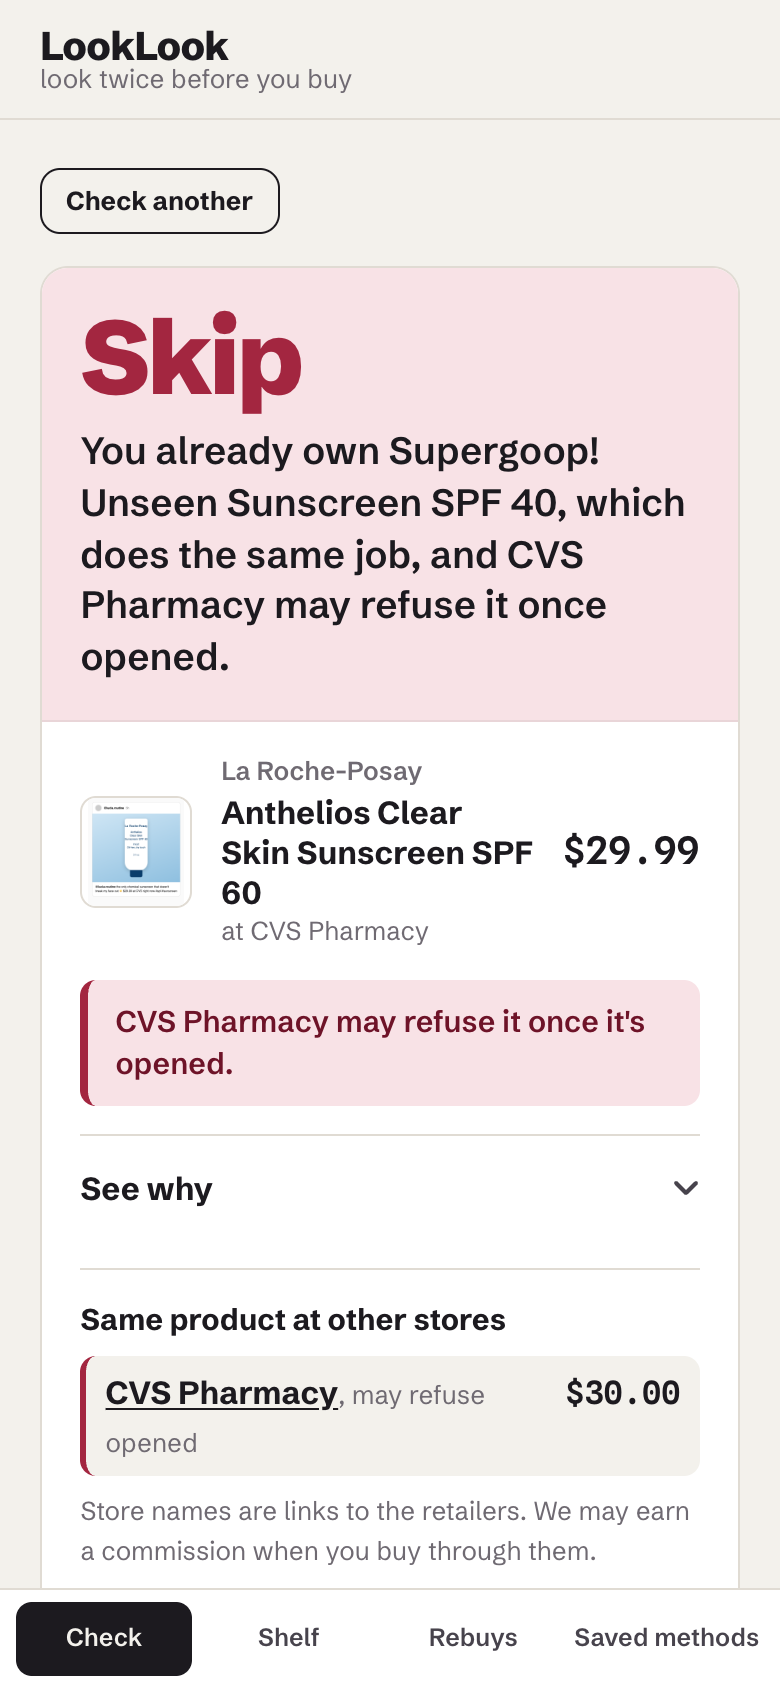
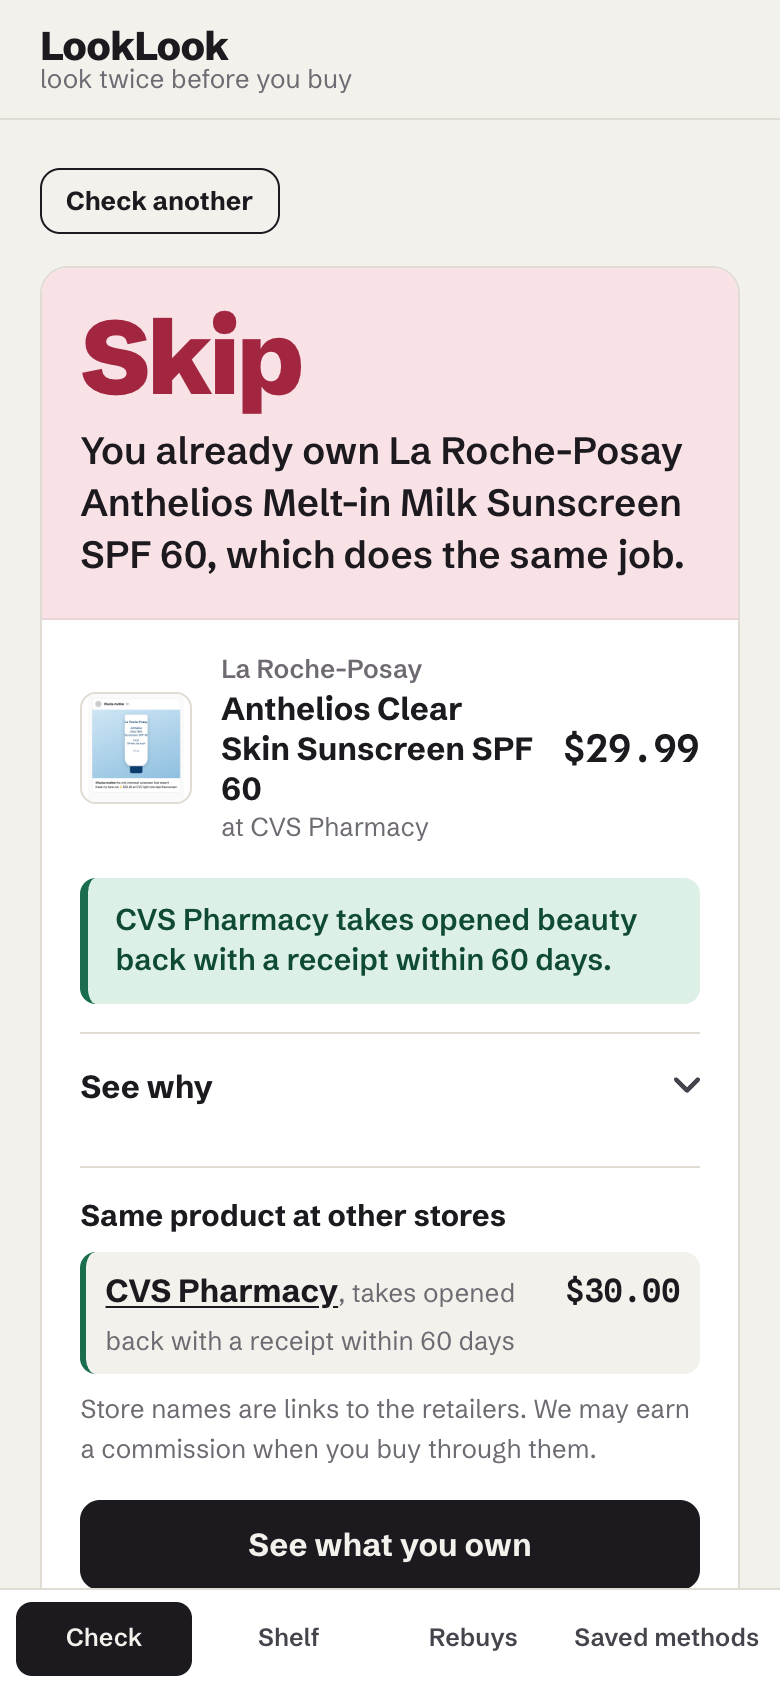
fix: CVS sunscreen card reassures: opened beauty goes back with a receipt
The return line names what an opened return needs when the policy says
so: "CVS Pharmacy takes opened beauty back with a receipt within 60
days." The same phrase appears in the verdict's Returns row, the
other-stores list and the Decisions workspace.

README: CVS joins the stores that take opened beauty back, the
development-set number is 58 of 65, and a Corrections note gives the
commits and times. The README image is re-shot. Tests cover CVS beauty
being returnable opened and the receipt wording.

Changed region(s): [[0.0308, 0.2464, 0.9538, 0.955], [0.7077, 0.7393, 0.8923, 0.7701]]

diff --git a/lib/policies/policies.test.ts b/lib/policies/policies.test.ts
@@ -1,5 +1,5 @@
 import { describe, expect, it } from "vitest";
-import { findRetailer, openedReturnPolicy, parsePolicyTable, policyTable, PolicyTableError } from "./index";
+import { findRetailer, openedNeedsFor, openedReturnPolicy, parsePolicyTable, policyTable, PolicyTableError } from "./index";
 
 describe("return-policy table", () => {
   it("loads the shipped table with the seven stores", () => {
@@ -24,17 +24,24 @@ describe("return-policy table", () => {
     }
   });
 
-  it("takes opened beauty back at CVS, citing the beauty section of its policy page", () => {
+  it("takes opened beauty back at CVS with a receipt, citing the beauty section of its policy page", () => {
     for (const category of ["sunscreen", "serum", "lipstick", "mascara"] as const) {
       const p = openedReturnPolicy("cvs", category);
-      expect(p).toMatchObject({ retailerId: "cvs", group: "beauty", returnableOpened: "yes", windowDays: 60, fallback: false });
+      expect(p).toMatchObject({ retailerId: "cvs", group: "beauty", returnableOpened: "yes", windowDays: 60, openedNeeds: "with a receipt", fallback: false });
       expect(p.sourceUrl).toMatch(/^https:\/\/www\.cvs\.com\/retail\/help\/return_policy#/);
       expect(p.conditions).toMatch(/third-party return authorization/);
     }
+    expect(openedNeedsFor("cvs", "beauty")).toBe("with a receipt");
     // Everything else at CVS still follows the general returns PDF.
     const kettle = openedReturnPolicy("cvs.com", "blender");
     expect(kettle).toMatchObject({ group: "general", returnableOpened: "no", windowDays: 60 });
     expect(kettle.sourceUrl).toMatch(/returns\.pdf$/);
+  });
+
+  it("rejects an empty opened-return condition", () => {
+    const t = JSON.parse(JSON.stringify(policyTable()));
+    t.retailers[0].rules[0].openedNeeds = " ";
+    expect(() => parsePolicyTable(t)).toThrow(PolicyTableError);
   });
 
   it("finds stores by id, name, domain and URL", () => {

diff --git a/app/check/[id]/page.tsx b/app/check/[id]/page.tsx
@@ -6,6 +6,7 @@ import { formatDate, formatDay, formatTime } from "@/lib/app/dates";
 import { RULE_ORDER, RULE_TEXT, relationText, returnsLine } from "@/lib/app/explain";
 import { formatDollars, toCentsSafe } from "@/lib/app/money";
 import { offerLines } from "@/lib/app/offers";
+import { openedNeedsFor } from "@/lib/policies";
 import { activeMethod, SELLER_OF_RECORD } from "@/lib/app/payments";
 import { waitAction } from "@/lib/app/reminders";
 import { cachedOffers } from "@/lib/app/services";
@@ -144,7 +145,7 @@ async function Result({ params }: { params: PageProps<"/check/[id]">["params"] }
               <>
                 <dt>Returns</dt>
                 <dd>
-                  {e.policy.fallback ? `${storeLabel(check.store) ?? "This store"} isn't in our policy table.` : `${e.policy.retailerName}: opened ${e.policy.group} returns ${e.policy.returnableOpened === "yes" ? "accepted" : e.policy.returnableOpened === "no" ? "may be refused" : e.policy.returnableOpened === "conditional" ? "only on conditions" : "not stated"}${e.policy.windowDays ? `, ${e.policy.windowDays} days` : ""}.`}{" "}
+                  {e.policy.fallback ? `${storeLabel(check.store) ?? "This store"} isn't in our policy table.` : `${e.policy.retailerName}: opened ${e.policy.group} returns ${e.policy.returnableOpened === "yes" ? `accepted${openedNeedsFor(e.policy.retailerId, e.policy.group) ? ` ${openedNeedsFor(e.policy.retailerId, e.policy.group)}` : ""}` : e.policy.returnableOpened === "no" ? "may be refused" : e.policy.returnableOpened === "conditional" ? "only on conditions" : "not stated"}${e.policy.windowDays ? `, ${e.policy.windowDays} days` : ""}.`}{" "}
                   {e.policy.sourceUrl && (
                     <>
                       <a href={e.policy.sourceUrl} target="_blank" rel="noreferrer">

diff --git a/lib/policies/index.ts b/lib/policies/index.ts
@@ -11,6 +11,8 @@ export interface PolicyRule {
   conditions: string;
   sourceUrl: string | null;
   checkedOn: string;
+  /** What an opened return needs, as a short phrase ("with a receipt"), where the policy names it. */
+  openedNeeds?: string;
 }
 
 export interface Retailer {
@@ -64,6 +66,7 @@ export function parsePolicyTable(raw: unknown): PolicyTable {
       if (!DATE.test(rule.checkedOn)) throw new PolicyTableError(`${r.id}/${rule.group}: bad checkedOn`);
       if (rule.returnableOpened !== "unknown" && !rule.sourceUrl) throw new PolicyTableError(`${r.id}/${rule.group}: a known answer needs a source URL`);
       if (rule.windowDays !== null && !(Number.isInteger(rule.windowDays) && rule.windowDays > 0)) throw new PolicyTableError(`${r.id}/${rule.group}: bad windowDays`);
+      if (rule.openedNeeds !== undefined && (typeof rule.openedNeeds !== "string" || !rule.openedNeeds.trim())) throw new PolicyTableError(`${r.id}/${rule.group}: bad openedNeeds`);
     }
   }
   if (!ids.has(FALLBACK_RETAILER_ID)) throw new PolicyTableError(`the ${FALLBACK_RETAILER_ID} fallback is required`);
@@ -95,6 +98,11 @@ export function findRetailer(store: string | undefined, t: PolicyTable = policyT
   if (byId) return byId;
   const host = hostOf(store);
   return t.retailers.find((r) => r.domains.some((d) => host === d || host.endsWith(`.${d}`))) ?? fallback;
+}
+
+/** What an opened return needs at this store for this group ("with a receipt"), when the policy names it. */
+export function openedNeedsFor(retailerId: string, group: PolicyGroup, t: PolicyTable = policyTable()): string | undefined {
+  return t.retailers.find((r) => r.id === retailerId)?.rules.find((r) => r.group === group)?.openedNeeds;
 }
 
 /** The opened-item return rule for this category at this store. */

diff --git a/lib/app/app.test.ts b/lib/app/app.test.ts
@@ -302,6 +302,12 @@ describe("return-policy line", () => {
     expect(returnsLine(decision("yes", "skip"))?.text).not.toContain("low risk");
     expect(returnsLine(decision("no"))?.text).toContain("may refuse");
   });
+
+  it("names what CVS needs for an opened beauty return", () => {
+    const cvs = { verdict: "skip", rule: "owns-similar", flags: [], evidence: { trace: [], policy: { retailerId: "cvs", retailerName: "CVS Pharmacy", group: "beauty", returnableOpened: "yes", windowDays: 60, sourceUrl: "c", checkedOn: "2026-11-07", fallback: false } } } as never;
+    expect(returnsLine(cvs)).toEqual({ tone: "ok", text: "CVS Pharmacy takes opened beauty back with a receipt within 60 days." });
+    expect(returnsLine(decision("unknown"))?.tone).toBe("unknown");
+  });
 });
 
 describe("skip number", () => {
@@ -500,7 +506,7 @@ describe("offers at other stores", () => {
       ["Ulta Beauty", "yes"],
       ["Sephora", "yes"],
     ]);
-    expect(lines[0].returnsText).toBe("takes opened back within 60 days");
+    expect(lines[0].returnsText).toBe("takes opened back with a receipt within 60 days");
     expect(lines[2].returnsText).toMatch(/^takes opened back within \d+ days$/);
   });
 });

diff --git a/lib/app/offers.ts b/lib/app/offers.ts
@@ -22,7 +22,7 @@ export function storeOffers(product: Pick<Product, "offers">): StoreOffer[] {
 export interface OfferLine extends StoreOffer {
   store: string;
   returns: OpenedReturn;
-  /** "takes opened back within 30 days", "may refuse opened", ... */
+  /** "takes opened back within 30 days", "takes opened back with a receipt within 60 days", "may refuse opened", ... */
   returnsText: string;
   policyUrl: string | null;
 }
@@ -35,7 +35,7 @@ export function offerLines(offers: StoreOffer[], category: Category | undefined)
     const store = p.fallback ? o.domain : p.retailerName;
     const returnsText =
       p.returnableOpened === "yes"
-        ? `takes opened back${p.windowDays ? ` within ${p.windowDays} days` : ""}`
+        ? `takes opened back${p.openedNeeds ? ` ${p.openedNeeds}` : ""}${p.windowDays ? ` within ${p.windowDays} days` : ""}`
         : p.returnableOpened === "no"
           ? "may refuse opened"
           : p.returnableOpened === "conditional"

diff --git a/lib/app/explain.ts b/lib/app/explain.ts
@@ -1,4 +1,5 @@
 import type { Decision, RuleId } from "../verdict/types";
+import { openedNeedsFor } from "../policies";
 
 /** Each rule in plain words, as shown under "See why". */
 export const RULE_TEXT: Record<RuleId, string> = {
@@ -47,9 +48,10 @@ export function returnsLine(d: Decision, storeLabel?: string): { tone: ReturnsTo
   const what = GROUP_WORD[p.group];
   switch (p.returnableOpened) {
     case "yes": {
+      const needs = p.fallback ? undefined : openedNeedsFor(p.retailerId, p.group);
       const window = p.windowDays ? ` within ${p.windowDays} days` : "";
       const tail = d.verdict === "skip" ? "" : ", so trying it is low risk";
-      return { tone: "ok", text: `${store} takes opened ${what} back${window}${tail}.` };
+      return { tone: "ok", text: `${store} takes opened ${what} back${needs ? ` ${needs}` : ""}${window}${tail}.` };
     }
     case "no":
       return { tone: "no", text: `${store} may refuse it once it's opened.` };

diff --git a/app/proof/page.tsx b/app/proof/page.tsx
@@ -243,7 +243,7 @@ function Corrections() {
               </li>
               {h && (
                 <li>
-                  Held out: the headline stays {held.skipCorrect} of {held.n}, read from the scored run in <span className="mono">{held.order.scoredRun.commit.slice(0, 7)}</span>. {h.scoredRunEffect}
+                  Held out: the headline stays {held.skipCorrect} of {held.n}, read from the scored run in <span className="mono">{held.order.scoredRun.commit.slice(0, 7)}</span>. Effect on that run: {h.scoredRunEffect.charAt(0).toLowerCase() + h.scoredRunEffect.slice(1)}
                   {rerun ? ` Re-run after the correction: ${rerun.skipCorrect} of ${rerun.n} (not a held-out number).` : ""}
                 </li>
               )}

diff --git a/lib/studio/studio.test.ts b/lib/studio/studio.test.ts
@@ -39,7 +39,7 @@ describe("workspace tables", () => {
     expect(typeof wait.buyAt).toBe("number");
     const cvs = v.find((r) => r.id === "sample-spf-cvs")!;
     expect(cvs.policyUrl).toMatch(/^https:\/\//);
-    expect(cvs.returns).toBe("CVS Pharmacy takes opened beauty back within 60 days.");
+    expect(cvs.returns).toBe("CVS Pharmacy takes opened beauty back with a receipt within 60 days.");
   });
 
   it("lists due staples as rebuys and says whether they fit the saved method's cap", () => {

diff --git a/README.md b/README.md
@@ -8,7 +8,7 @@ For anyone who buys skincare and makeup they saw on their feed and ends up with 
 
 **On 30 products it had never seen, LookLook's skip was right 28 times. Saying skip to everything gets 13; skipping anything in a category you own gets 19.** Skip precision 92.3% (12 of 13 skips right), recall 92.3% (12 of 13 caught). Of the 12 right skips, 10 rest on evidence (the shelf, or a cited store policy) and 2 on our default that an unknown opened-return policy counts as not returnable. The order of work is in git: the engine last changed in `4fbf420` (2026-11-06 22:28 EST), the 30 expected answers were committed in `effe79b` (2026-11-07 00:17 EST), and the one scored run was committed as generated in `e3cd601` (2026-11-07 00:20 EST). The wrong skip, the missed skip and the five other misses are in [`eval/holdout/RESULTS.md`](eval/holdout/RESULTS.md) and on the app's `/proof` page; `GET /api/eval/holdout` returns every case, read from that run's committed results.
 
-The 65 products the matching was developed on come second, because they were used to improve it: 60 of 65 there (saying skip to everything gets 39; same category gets 40). Its first scored run was 55 of 65; one similarity change later it was 60 of 65, with the expected answers untouched ([`eval/skip-set/RESULTS.md`](eval/skip-set/RESULTS.md)). `GET /api/eval/skip` and `npm run eval:skip` re-run it with no network calls.
+The 65 products the matching was developed on come second, because they were used to improve it: 58 of 65 there (saying skip to everything gets 39; same category gets 40). Its first scored run was 55 of 65 and one similarity change later 60 of 65; then a store policy we had misread was corrected, together with the expected answers it affected, and it is 58 of 65 ([`eval/skip-set/RESULTS.md`](eval/skip-set/RESULTS.md); see Corrections below). `GET /api/eval/skip` and `npm run eval:skip` re-run it with no network calls.
 
 PayPal's shopping tools help you buy what you saw. LookLook asks whether you should, and when it's a staple, PayPal Vault makes buying it again one yes.
 
@@ -53,7 +53,7 @@ Open `/judge` on the running app for six short steps. Sandbox PayPal buyer login
 
 The model observes; code decides. Claude turns the screenshot into fields (brand, name, price, store, key attributes); a catalogue match is scored in code, and a weak or tied match asks you to confirm. Twelve ordered rules then decide from structured fields only: shelf similarity, run-out dates, the store's cited return-once-opened policy, the budget left and the cleaned price band. Anything unresolved lands on ask or wait, never buy. Money moves only after your tap, on a method you saved, under the cap you set.
 
-Most big beauty stores take opened beauty back (Sephora, Ulta, Target and Kohl's do; CVS may refuse it; Walgreens leaves it to the manager), so the return line is usually reassurance ("Ulta Beauty takes opened beauty back within 30 days, so trying it is low risk") and a reason to skip only where the cited policy refuses opened items or no policy was found.
+Most big beauty stores take opened beauty back (Sephora, Ulta, Target, Kohl's and CVS do; Walgreens leaves it to the manager), so the return line is usually reassurance ("Ulta Beauty takes opened beauty back within 30 days, so trying it is low risk"; "CVS Pharmacy takes opened beauty back with a receipt within 60 days") and a reason to skip only where the cited policy refuses opened items or no policy was found.
 
 ## Run it
 
@@ -94,9 +94,10 @@ VISION_SMOKE=1 npm run smoke:vision -- screenshot.png          # live screenshot
 - **Who sells what.** Checkout and rebuys inside LookLook are sold by "LookLook Test Store (PayPal sandbox)", a PayPal sandbox merchant, not by the retailer in the post; the store names on a verdict are links to the retailers, and we may earn a commission when you buy through them.
 - **PayPal activity import is off.** Filling the shelf from PayPal activity needs the Transaction Search permission on the PayPal app, which this sandbox app doesn't have yet (403). The shelf comes from manual adds and purchases made in the app.
 - **Waiting saves little on beauty.** In the wait-timing replay (28 purchases, real price histories), waiting by our rule paid $58.56 (1.7%) less than buying on the first price alert, and only $1.07 of that was beauty. For beauty the value is in the skip, not the wait.
-- Both skip sets' shoppers, shelves, budgets and expected answers are made up by one person. On the held-out set the wrong skip is a body sunscreen read as overlapping a face sunscreen, the missed skip a matte setting spray when a dewy one is owned, and three products (a conditioner, a hair oil, a kettle) got "ask" because the app had no such category at the time. On the development set five of 65 skip decisions disagree; the causes are listed in `eval/skip-set/RESULTS.md`. 29 of the 65 cases are at stores outside the policy table, where an unknown policy counts as not returnable; 7 of the 35 right skips depend on that default.
+- Both skip sets' shoppers, shelves, budgets and expected answers are made up by one person. On the held-out set the wrong skip is a body sunscreen read as overlapping a face sunscreen, the missed skip a matte setting spray when a dewy one is owned, and three products (a conditioner, a hair oil, a kettle) got "ask" because the app had no such category at the time. On the development set seven of 65 skip decisions disagree; the causes are listed in `eval/skip-set/RESULTS.md`. 29 of the 65 cases are at stores outside the policy table, where an unknown policy counts as not returnable; 7 of the 33 right skips depend on that default.
 - **After the held-out run, the matching changed once.** The held-out misses showed real gaps, so the app gained conditioner, hair oil or serum, lip balm, kettle and toaster categories, and a sunscreen's area (face, body, or both) became its product type, so a body sunscreen no longer counts as a second face sunscreen (commit `c0d3b0d`, 2026-11-07 00:34 EST). Re-run on that code, the held-out set scores 29 of 30 (saying skip to everything 13; same category 18, now that the shopper's lip balm and hair oil stay on her shelf), but those products shaped the change, so it is no longer a held-out number and the headline stays 28 of 30. The development set stayed at 60 of 65. Both re-runs are in the "After later changes" sections of the two RESULTS.md files and on `/proof`.
-- The first scored run was 55 of 65. Since then the similarity rule changed once (product type, actives, finish and form compared with half credit for neighbouring values; see `eval/skip-set/provenance.json`); the expected answers were not touched. A first version of that change scored 58 of 65 before its actives rule was replaced; both runs are recorded in `eval/skip-set/README.md`.
+- The first scored run was 55 of 65. Since then the similarity rule changed once (product type, actives, finish and form compared with half credit for neighbouring values; see `eval/skip-set/provenance.json`), and the expected answers were corrected once, for a misread store policy (next point). A first version of that change scored 58 of 65 before its actives rule was replaced; both runs are recorded in `eval/skip-set/README.md`.
+- **Corrections.** On 2026-11-07 we found two store policies read from the wrong place. The policy table said CVS may refuse opened beauty, citing CVS's general returns PDF; the beauty section of CVS's return policy page takes beauty back opened or unopened with a receipt or invoice. It also said Target takes opened electronics back for exchange only, but Target's exchange-only list doesn't include electronics. The table was fixed first (commit `a37226a`, 2026-11-07 00:41 EST), then the expected answers at those stores, before any re-run (`e2c06ee`, 00:42 EST): c02, c06, c24, c26 and held-out h09 stay skip without the non-returnable reason, and c61 keeps its verdict with a corrected why. The development set went from 60 to 58 of 65: c06 and c26 overlap only partly with what the shopper owns, and at a store that takes opened beauty back the engine leaves a partial overlap to the price rules. The held-out headline stays 28 of 30, read from the scored run in `e3cd601`: h09 was a near-duplicate skip decided on the shelf, so its verdict and the score are unaffected; only its reason text changed. Details in both RESULTS.md files and on `/proof`.
 - Dates: receipts, notices, refunds, restocks and event times are real, in US Eastern time. The Rebuys date control moves only run-out dates, look-again dates and this month's budgets; while it is ahead, every page that uses it says "Simulated date" and dates counted from it carry "(simulated date)". A bought verdict keeps the reason it had when it was decided, shown as "At the time: …" under a Bought state.
 - The four sample posts are mock creator posts we drew; the products and prices in them are real.
 - Two sandbox behaviours we design around: two simultaneous order requests with the same `PayPal-Request-Id` created two orders (sequential repeats return the first), so same-key payment calls are merged in the app before they reach PayPal; and a payment token deleted seconds after it was saved came back a few seconds later, so removal repeats the delete until two checks find nothing. Both are handled inside one process: run a single instance.
